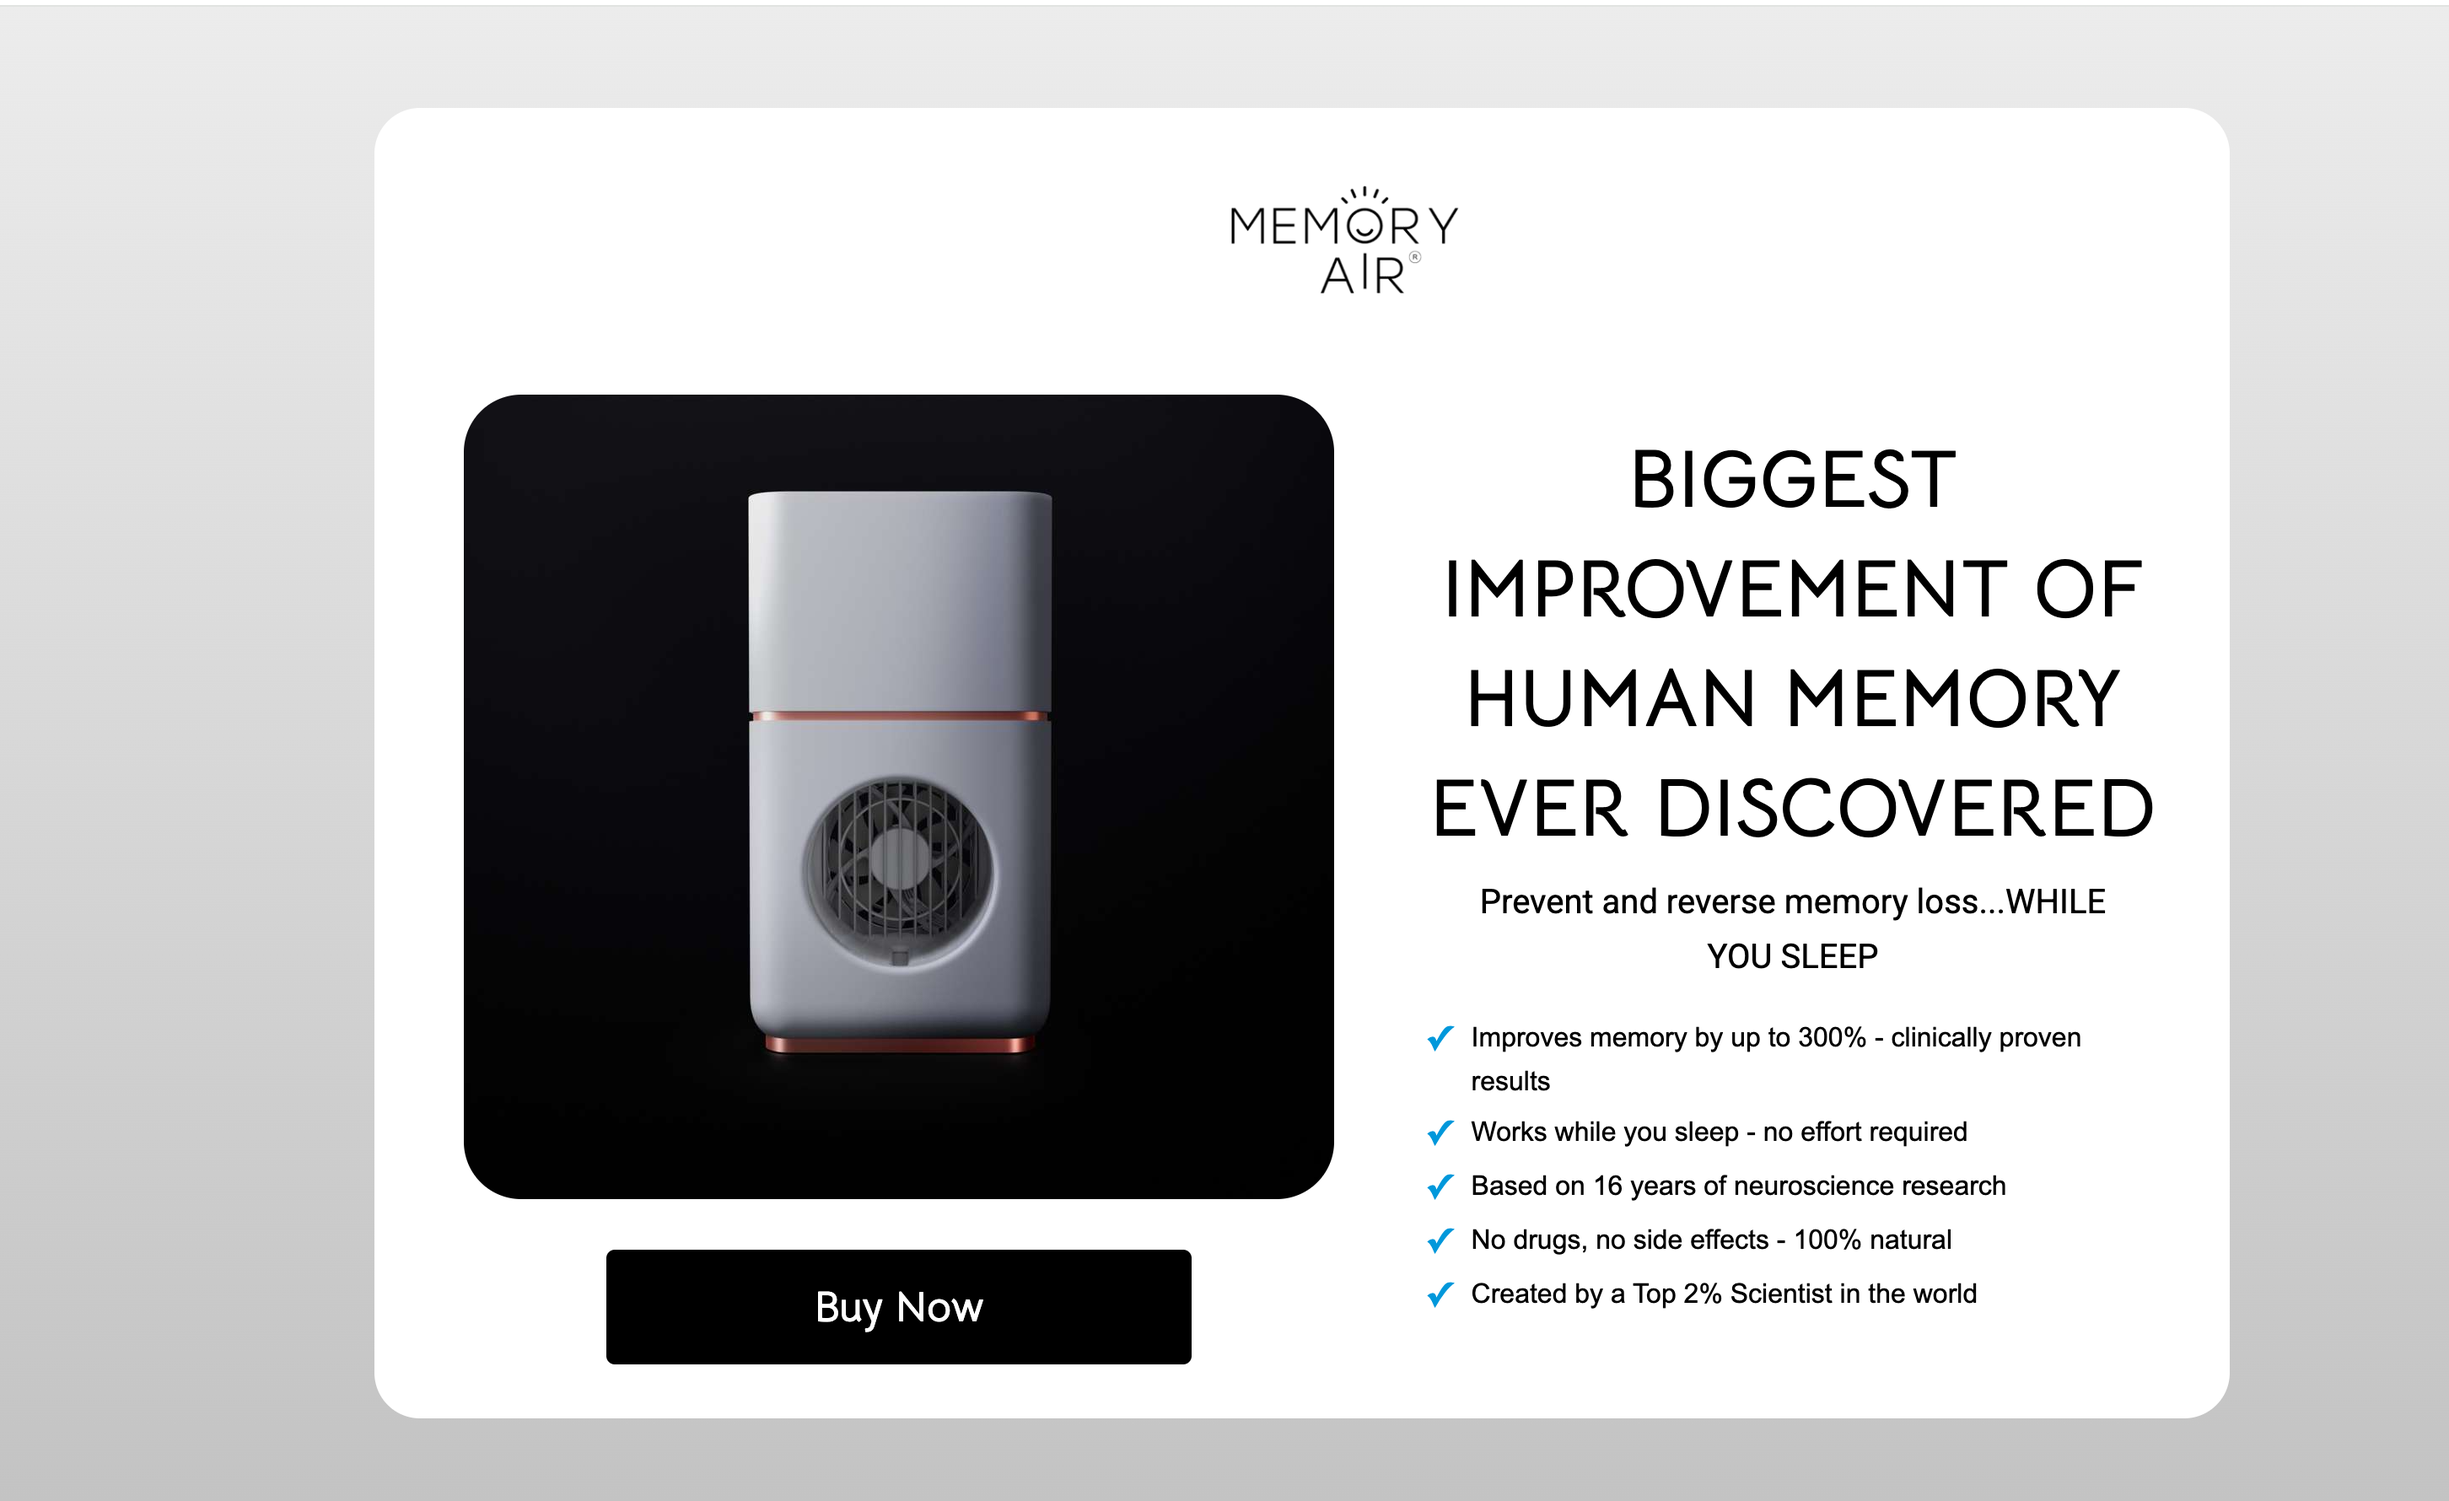
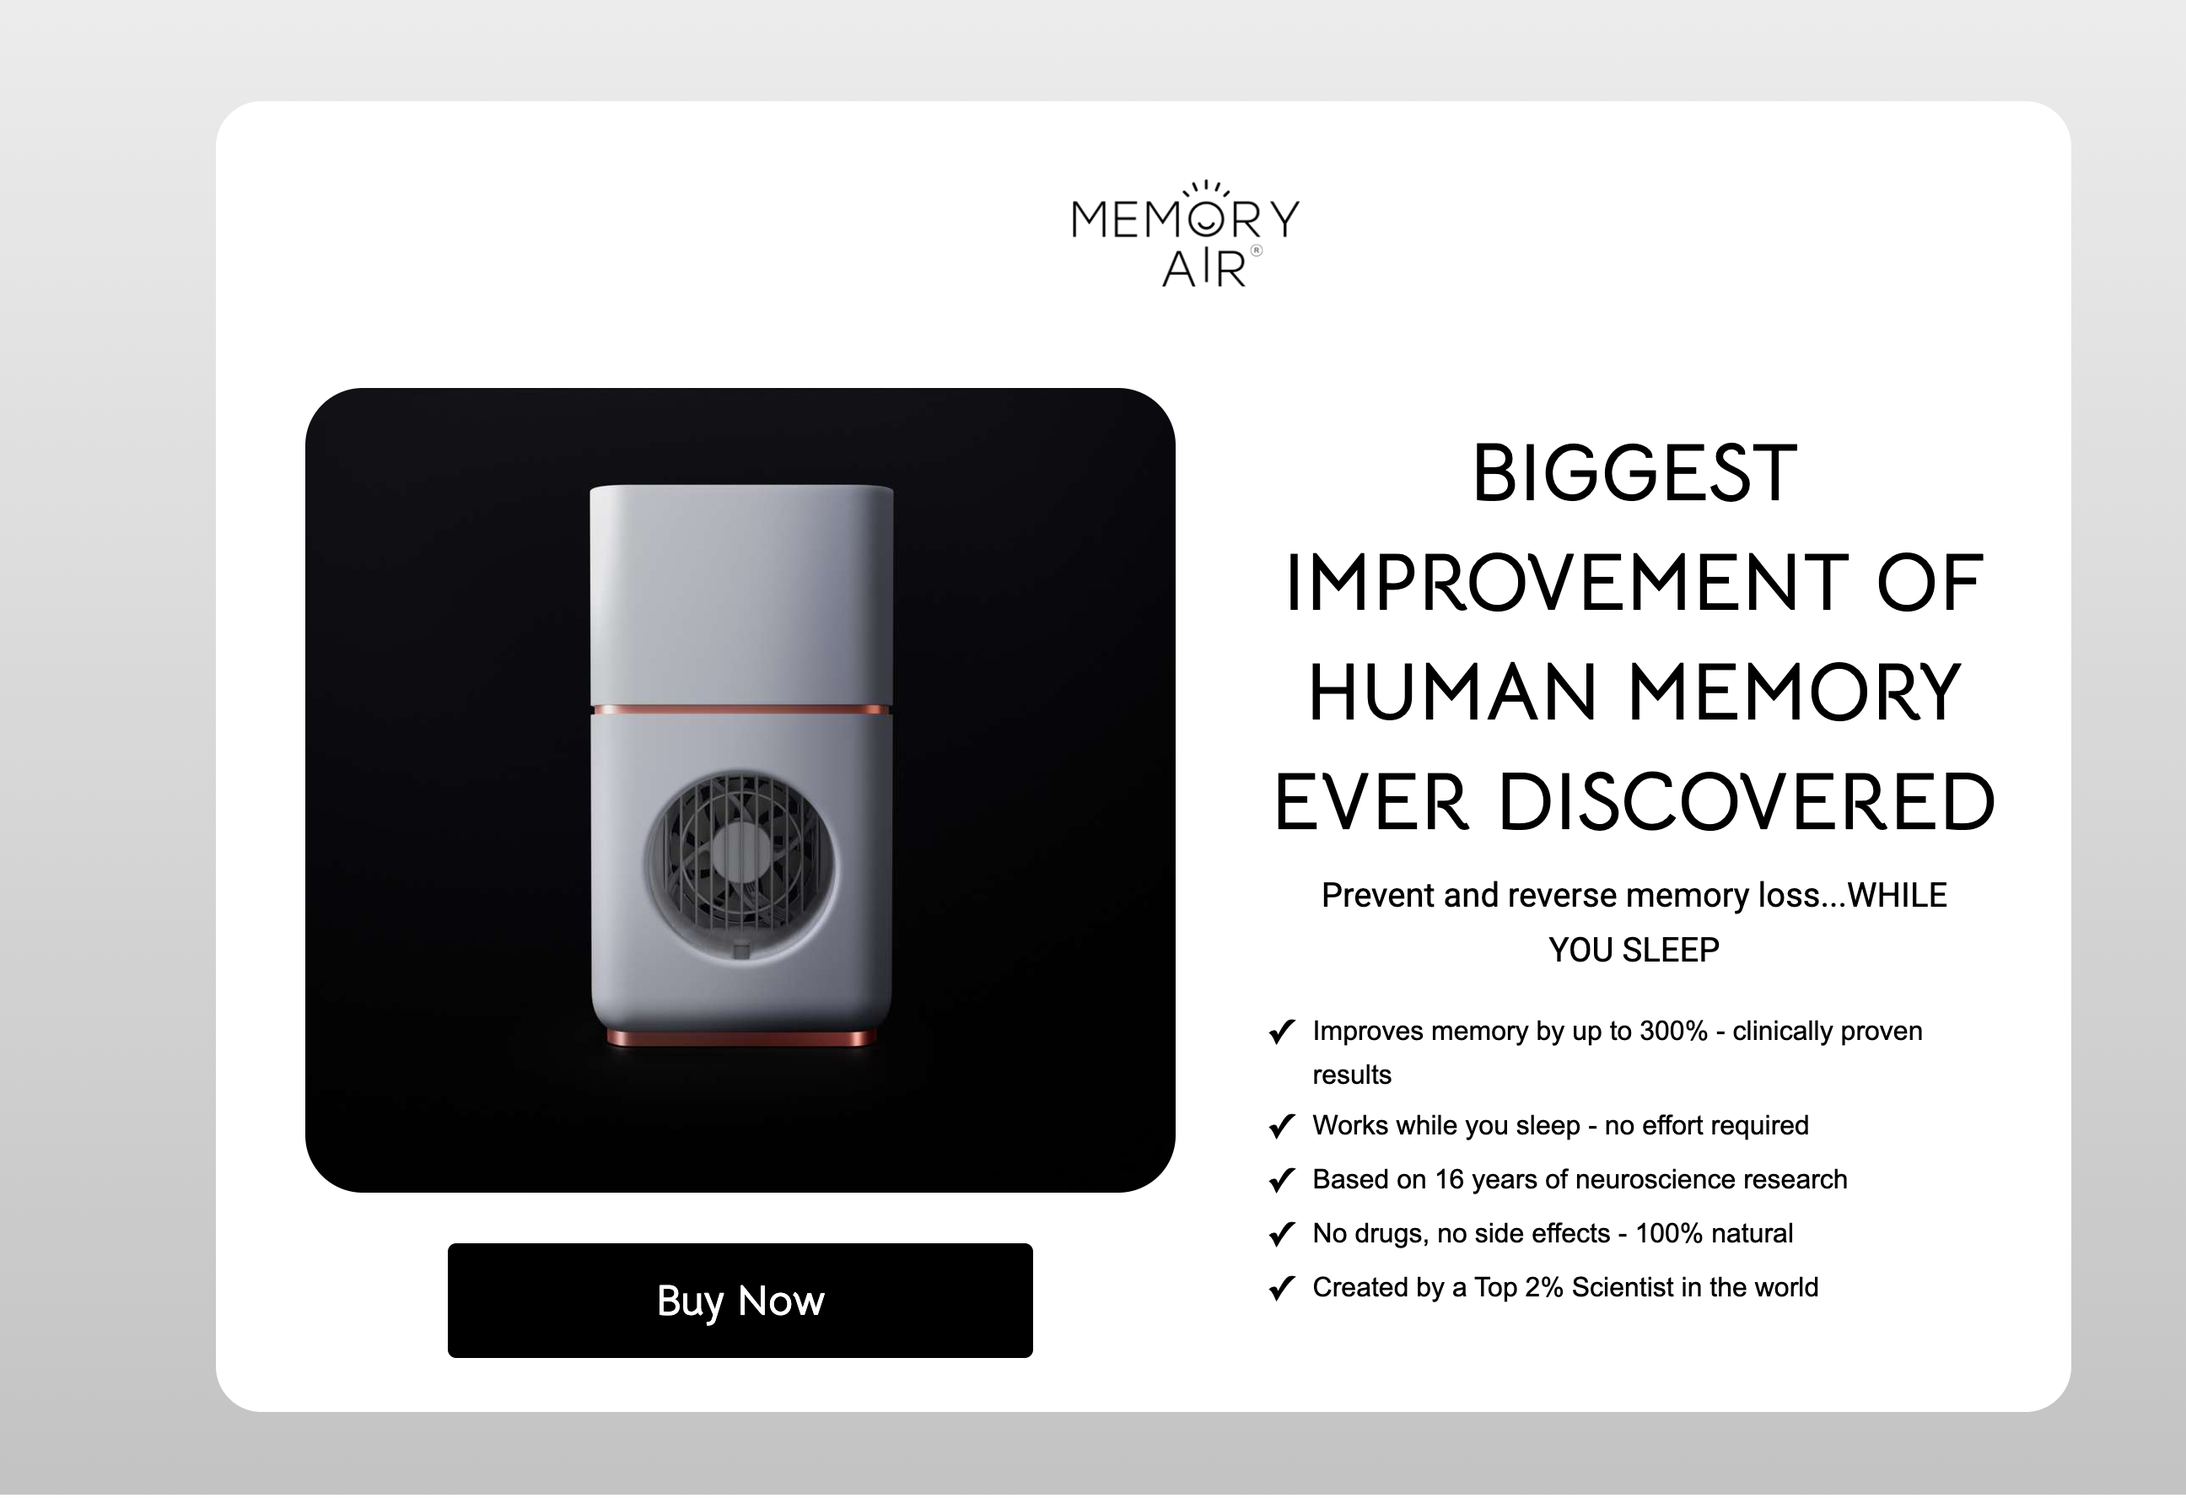
modify e

diff --git a/variant-e/variant-e.js b/variant-e/variant-e.js
@@ -84,7 +84,7 @@ function addBenefitsSection() {
 function BenefitItem({ icon, text }) {
   return (
     <li className="cf:flex cf:items-start cf:gap-3">
-      <span className="cf:flex-shrink-0 cf:text-[#0098db] cf:font-bold cf:text-xl">
+      <span className="cf:flex-shrink-0 cf:text-black cf:font-bold cf:text-xl">
         {icon}
       </span>
       <span className="cf:text-black cf:text-base cf:leading-relaxed">
